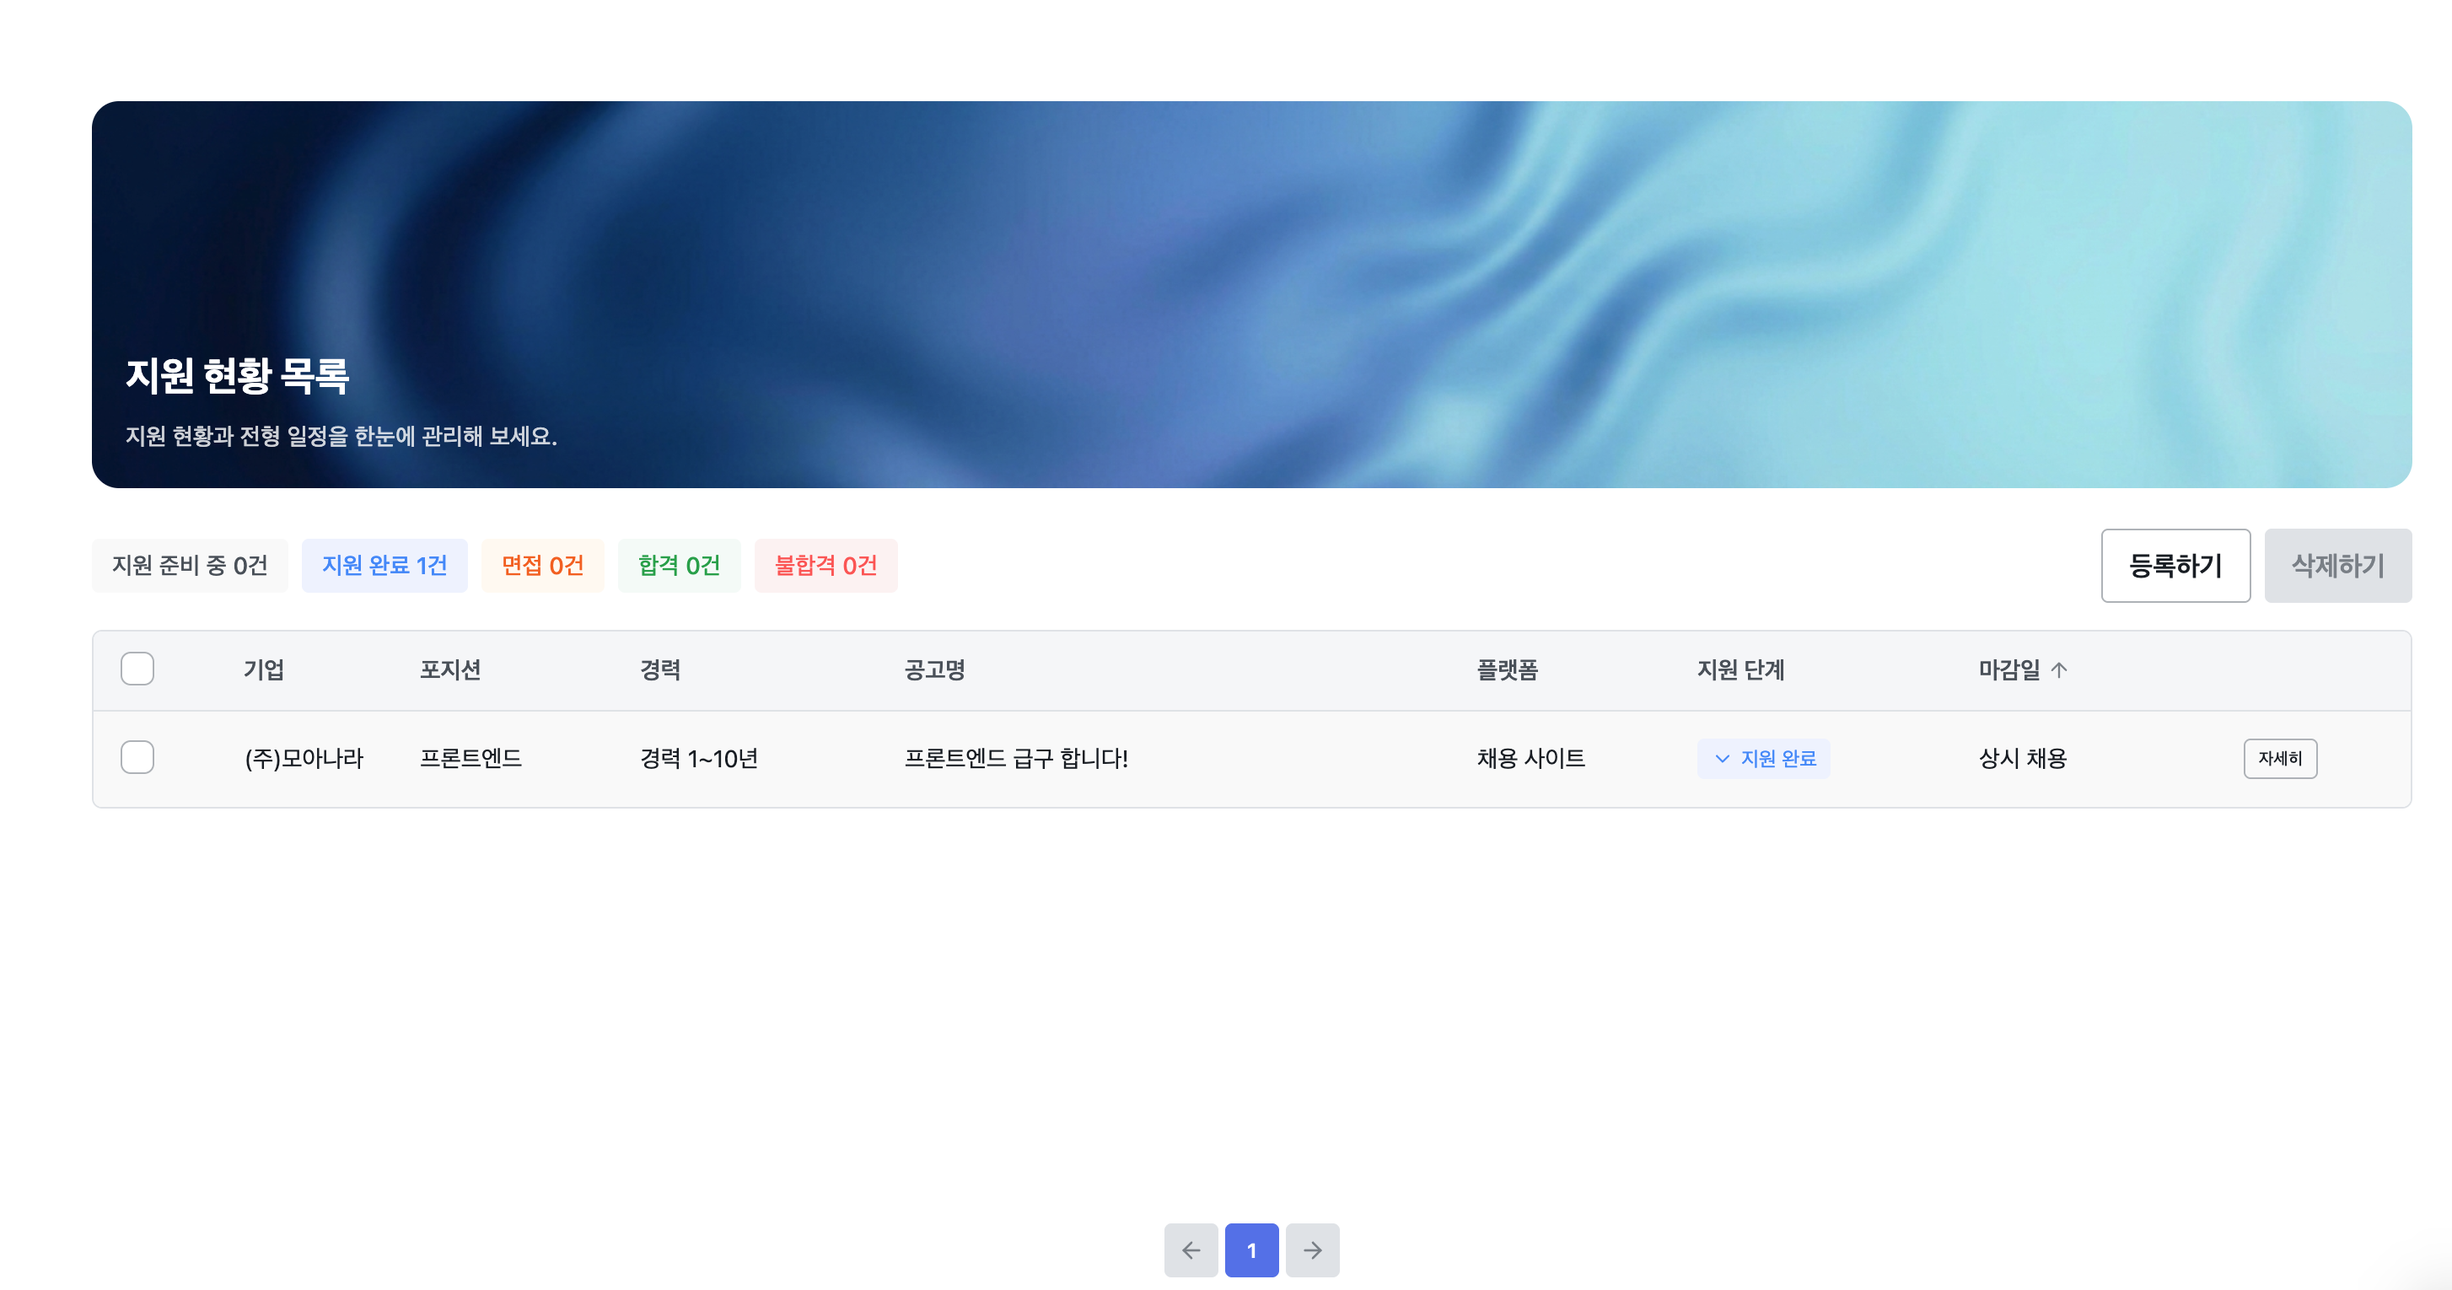
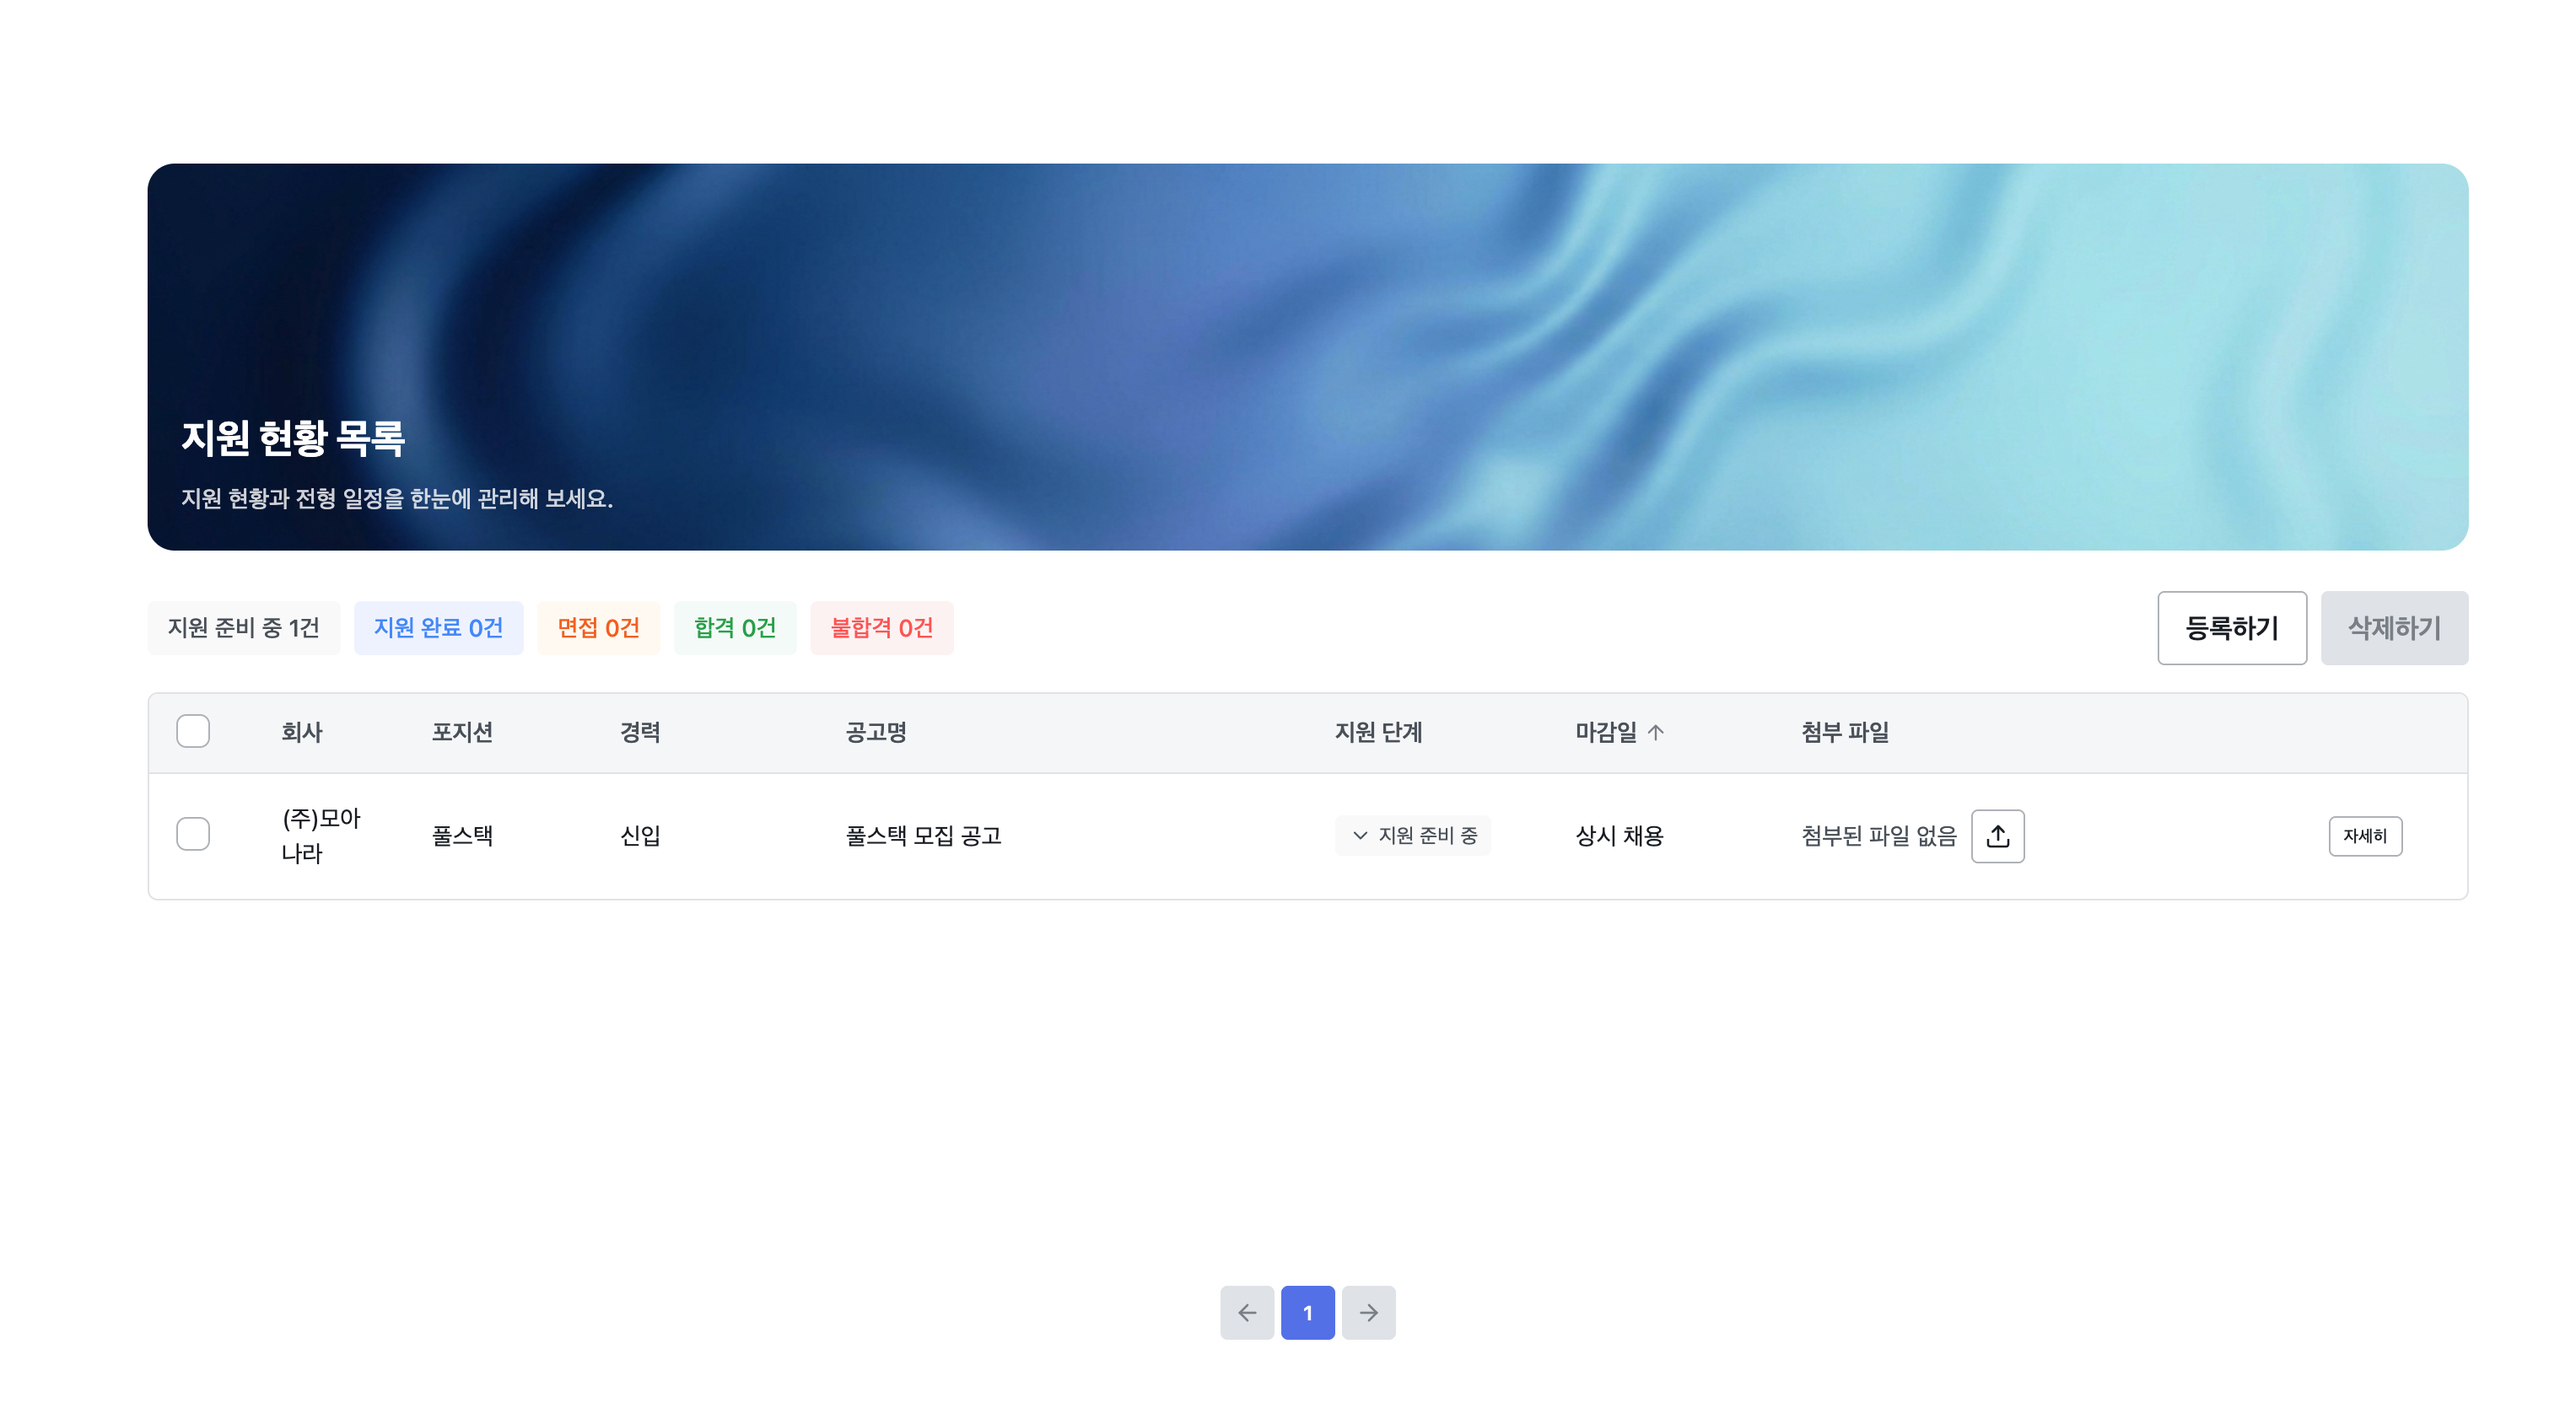
docs: 리드미 업데이트

diff --git a/README.md b/README.md
@@ -4,18 +4,20 @@
 
 ![홈 화면](./docs/home.png)
 ![지원 현황 목록](./docs/application.png)
+![첨부 파일 연동](./docs/upload.png)
 
 ## 프로젝트 배경
 
-각 채용 플랫폼에서 지원 현황을 확인할 수는 있지만, 지원 단계와 전형 일정을 나만의 기준으로 관리하고 싶어 노션에 따로 정리했습니다. 하지만 지원할수록 정보가 흩어지고 직접 갱신해야 하는 과정이 불편해졌습니다. 공고마다 기업명, 포지션, 경력, 마감일 등의 정보를 직접 정리하는 과정도 번거로웠습니다.  
-\
-그래서 공고 URL만 입력하면 Gemini Flash가 원문을 구조화된 데이터로 추출하도록 구현했습니다. 추출한 정보는 지원 목록에 저장해 더 간단하고 빠르게 지원 현황을 관리할 수 있도록 했습니다.
+공식 채용 페이지로 지원한 내역을 관리하기 위해 노션에 회사명, 포지션, 전형 일정 등을 직접 정리했습니다. 지원이 늘어날수록 정보를 입력하고 제출한 이력서와 포트폴리오를 따로 관리하는 일이 번거로워졌습니다.
+
+이 과정을 줄이기 위해 채용 공고 URL에서 필요한 정보를 추출하고, 지원 현황과 제출 파일을 한곳에서 관리할 수 있는 서비스를 만들었습니다.
 
 ## 주요 기능
 
-- Gemini Flash 기반 채용 공고 URL 정보 추출
-- 추출한 채용 공고와 개인 지원 목록 동시 저장
-- 지원 공고 등록, 조회, 수정, 삭제 및 지원 단계 관리
+- 채용 공고 URL에서 회사명, 포지션, 경력, 마감일 등 추출
+- 지원 공고 등록 및 지원 단계·전형 일정 관리
+- 이력서·포트폴리오 업로드 및 미리보기
+- 지원 공고와 제출 파일 연결 및 연결 내역 확인
 
 ## 기술 스택
 
